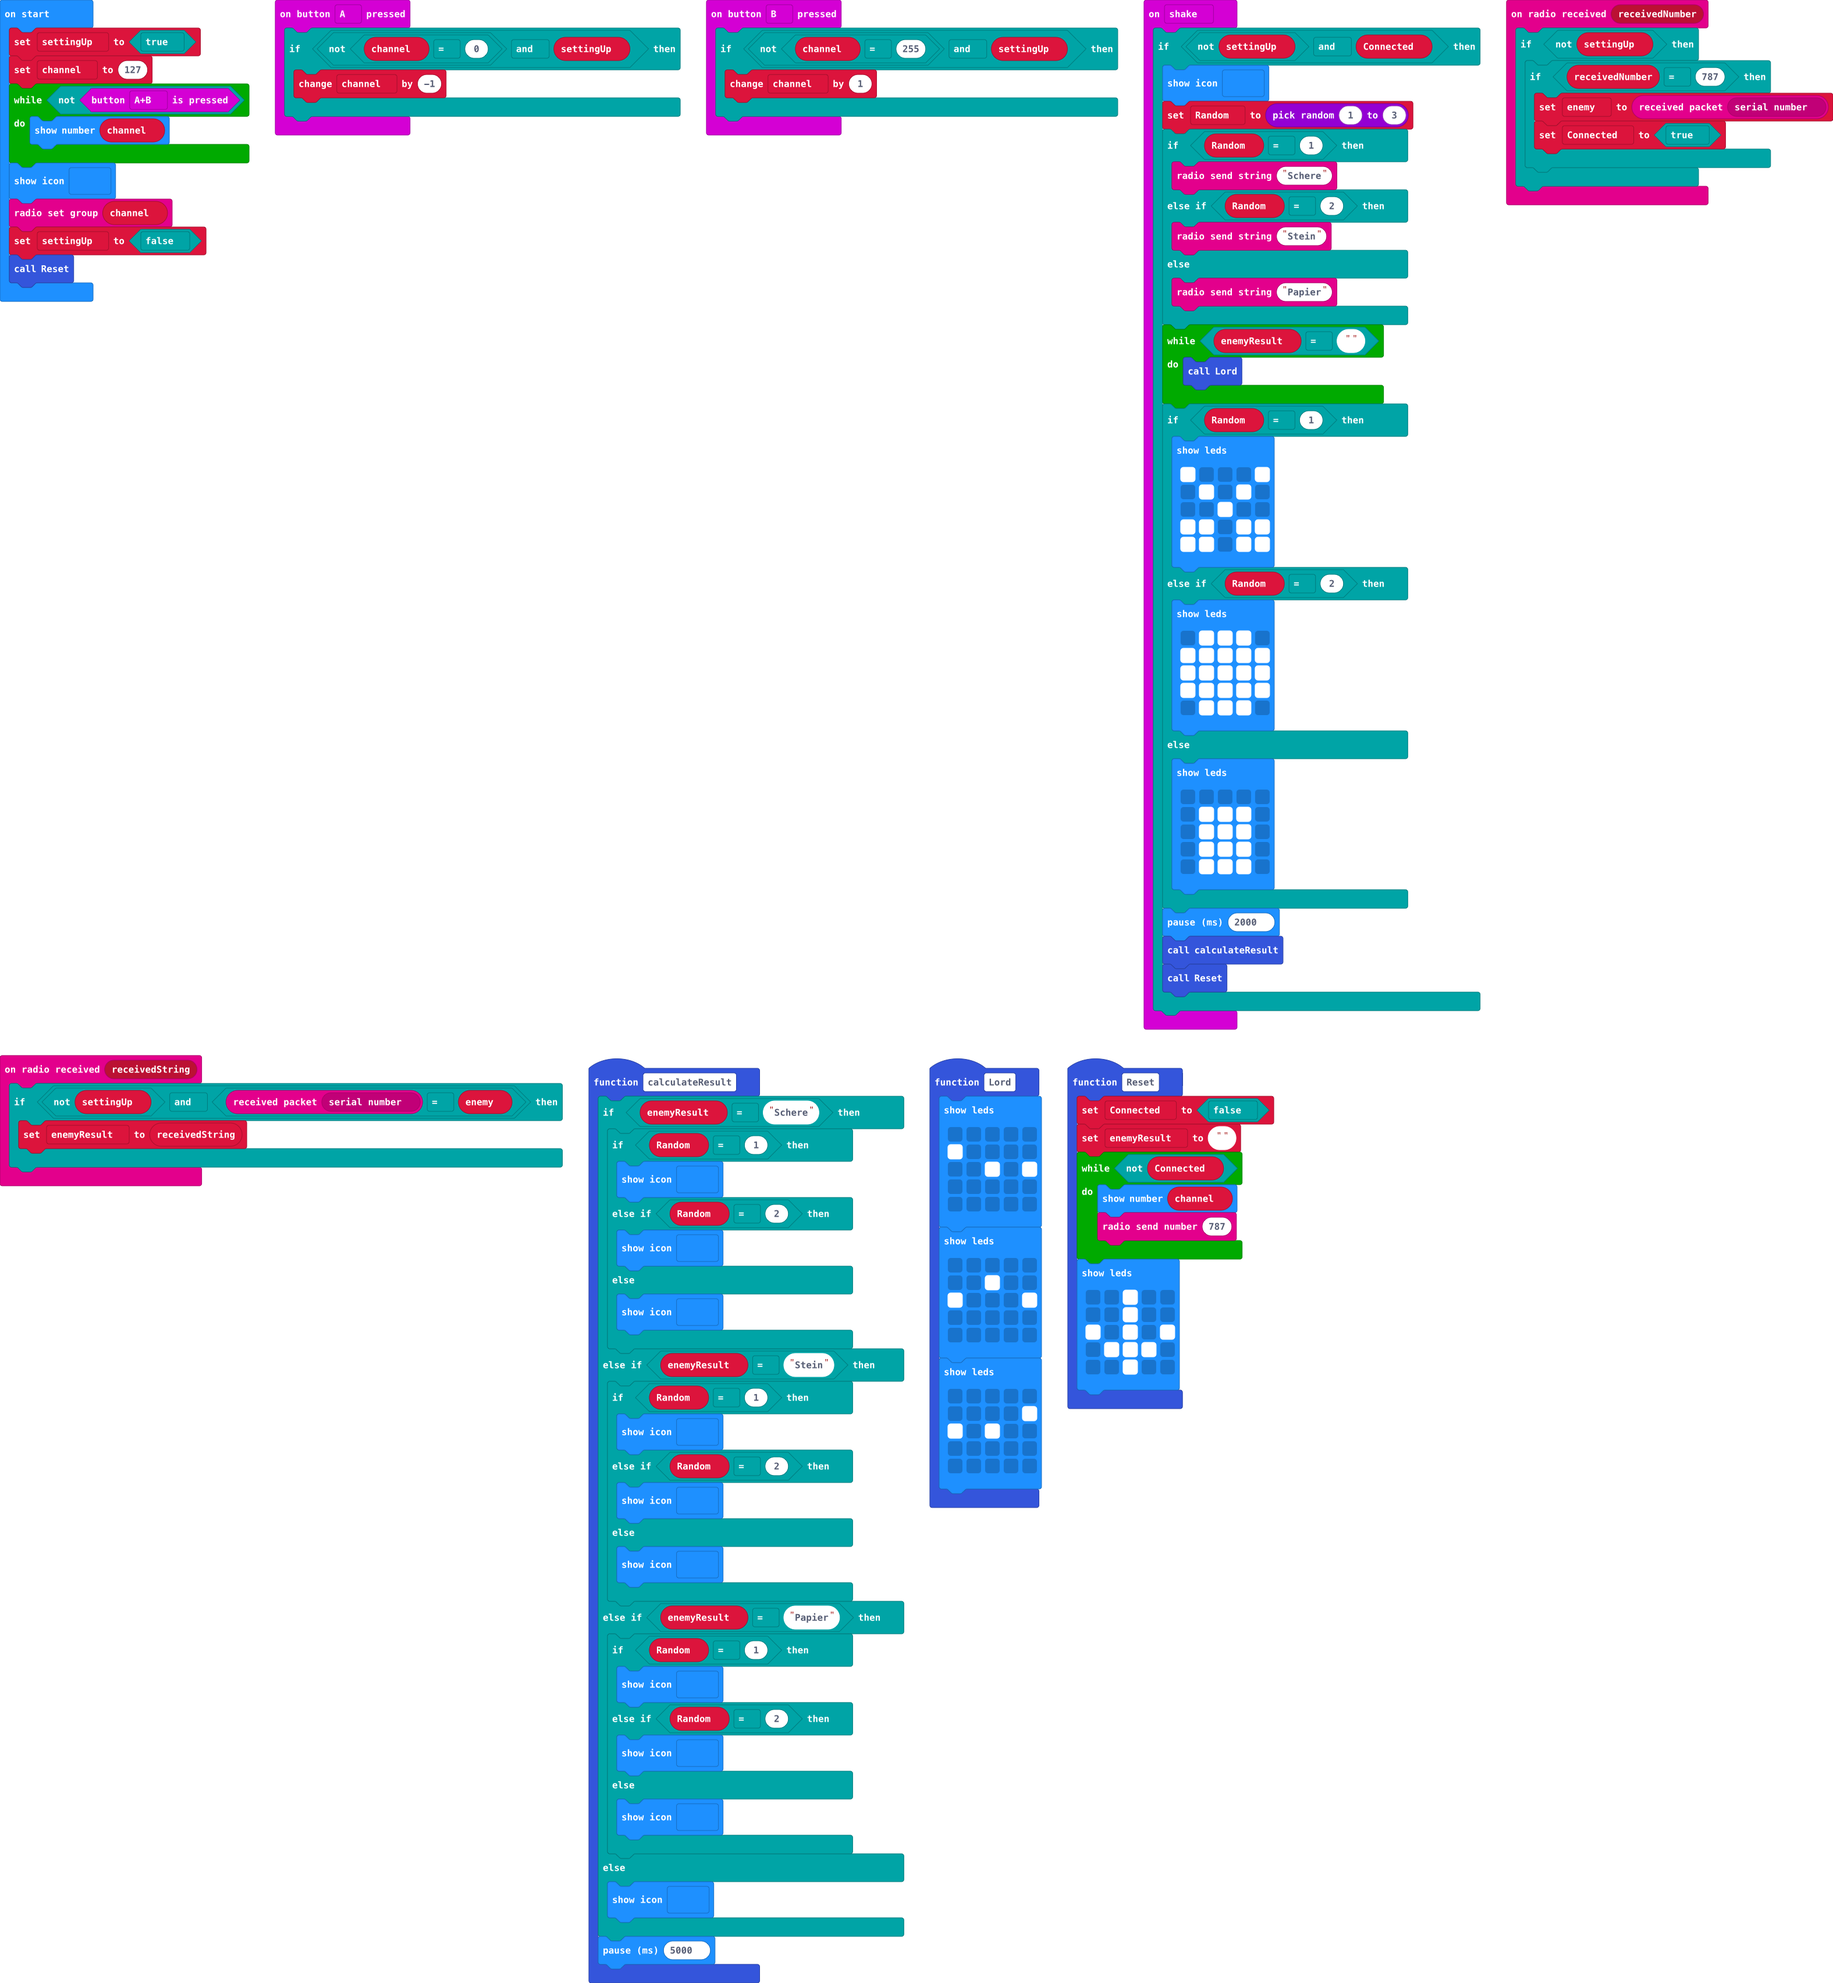
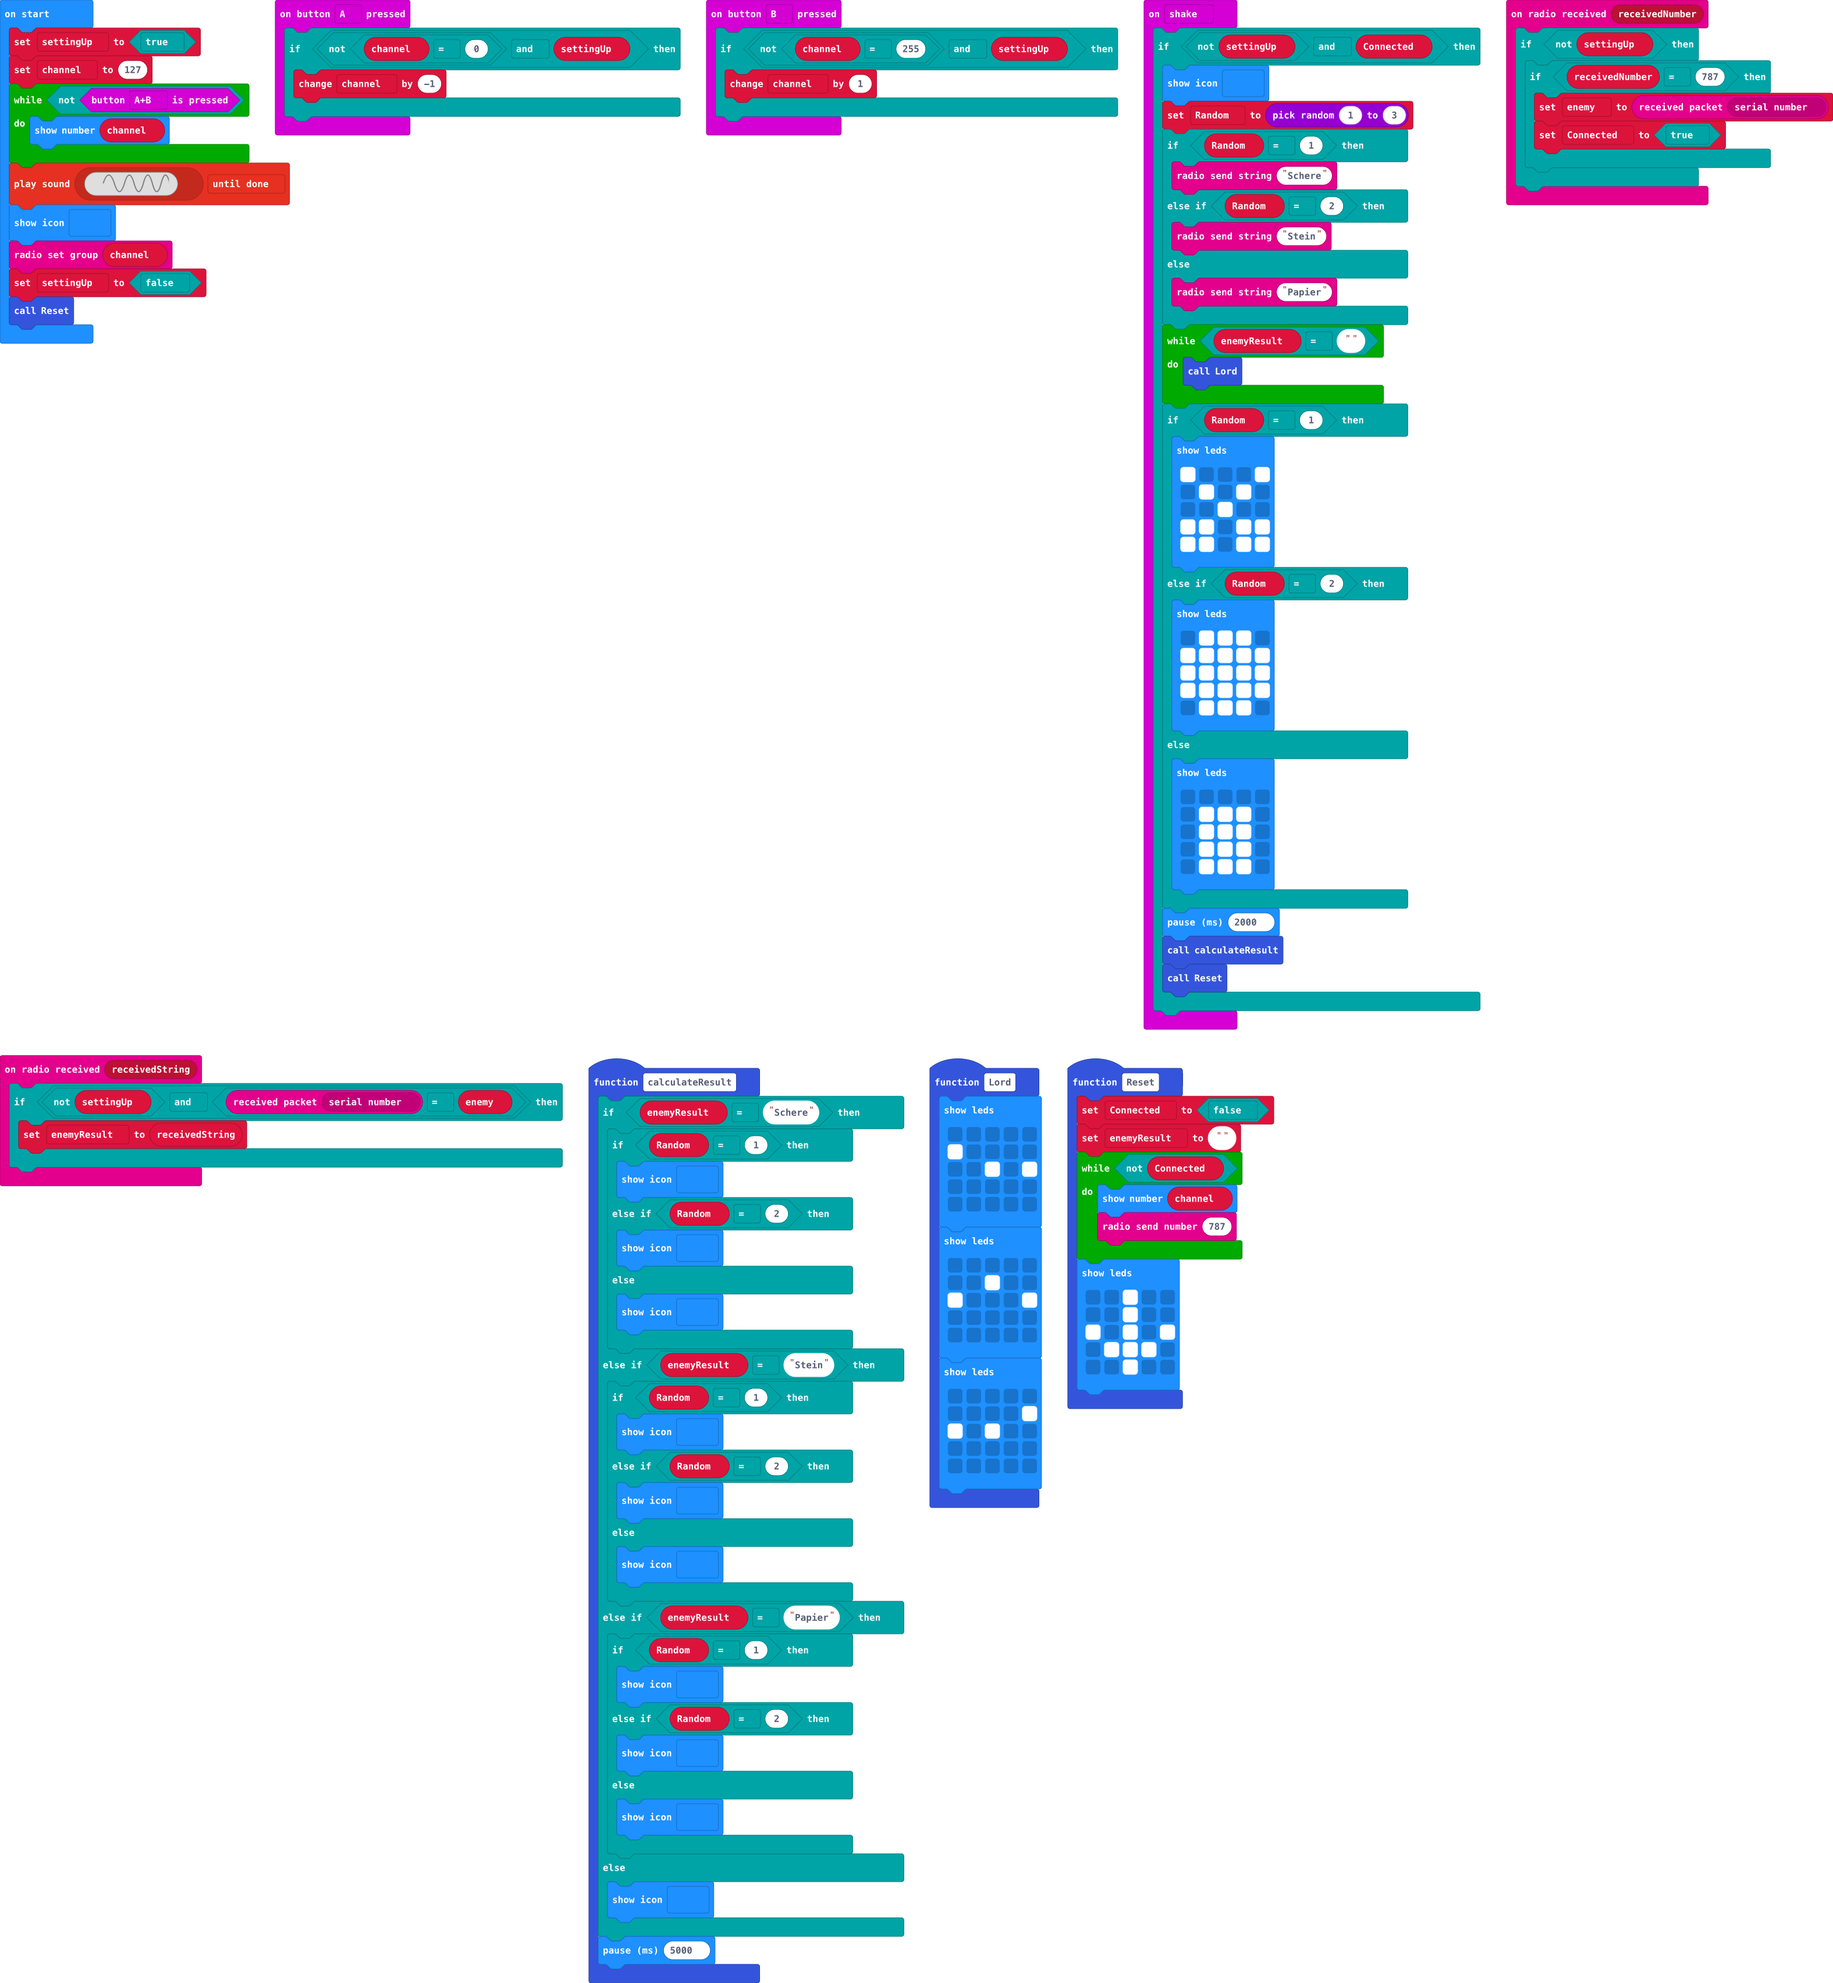
Update main.blocks, main.ts

Changed region(s): [[0.0, 0.0622, 0.1556, 0.1866]]

diff --git a/main.ts b/main.ts
@@ -144,6 +144,7 @@ channel = 127
 while (!(input.buttonIsPressed(Button.AB))) {
     basic.showNumber(channel)
 }
+music.playSoundEffect(music.createSoundEffect(WaveShape.Sine, 2162, 3098, 255, 255, 50, SoundExpressionEffect.Tremolo, InterpolationCurve.Logarithmic), SoundExpressionPlayMode.UntilDone)
 basic.showIcon(IconNames.Yes)
 radio.setGroup(channel)
 settingUp = false
